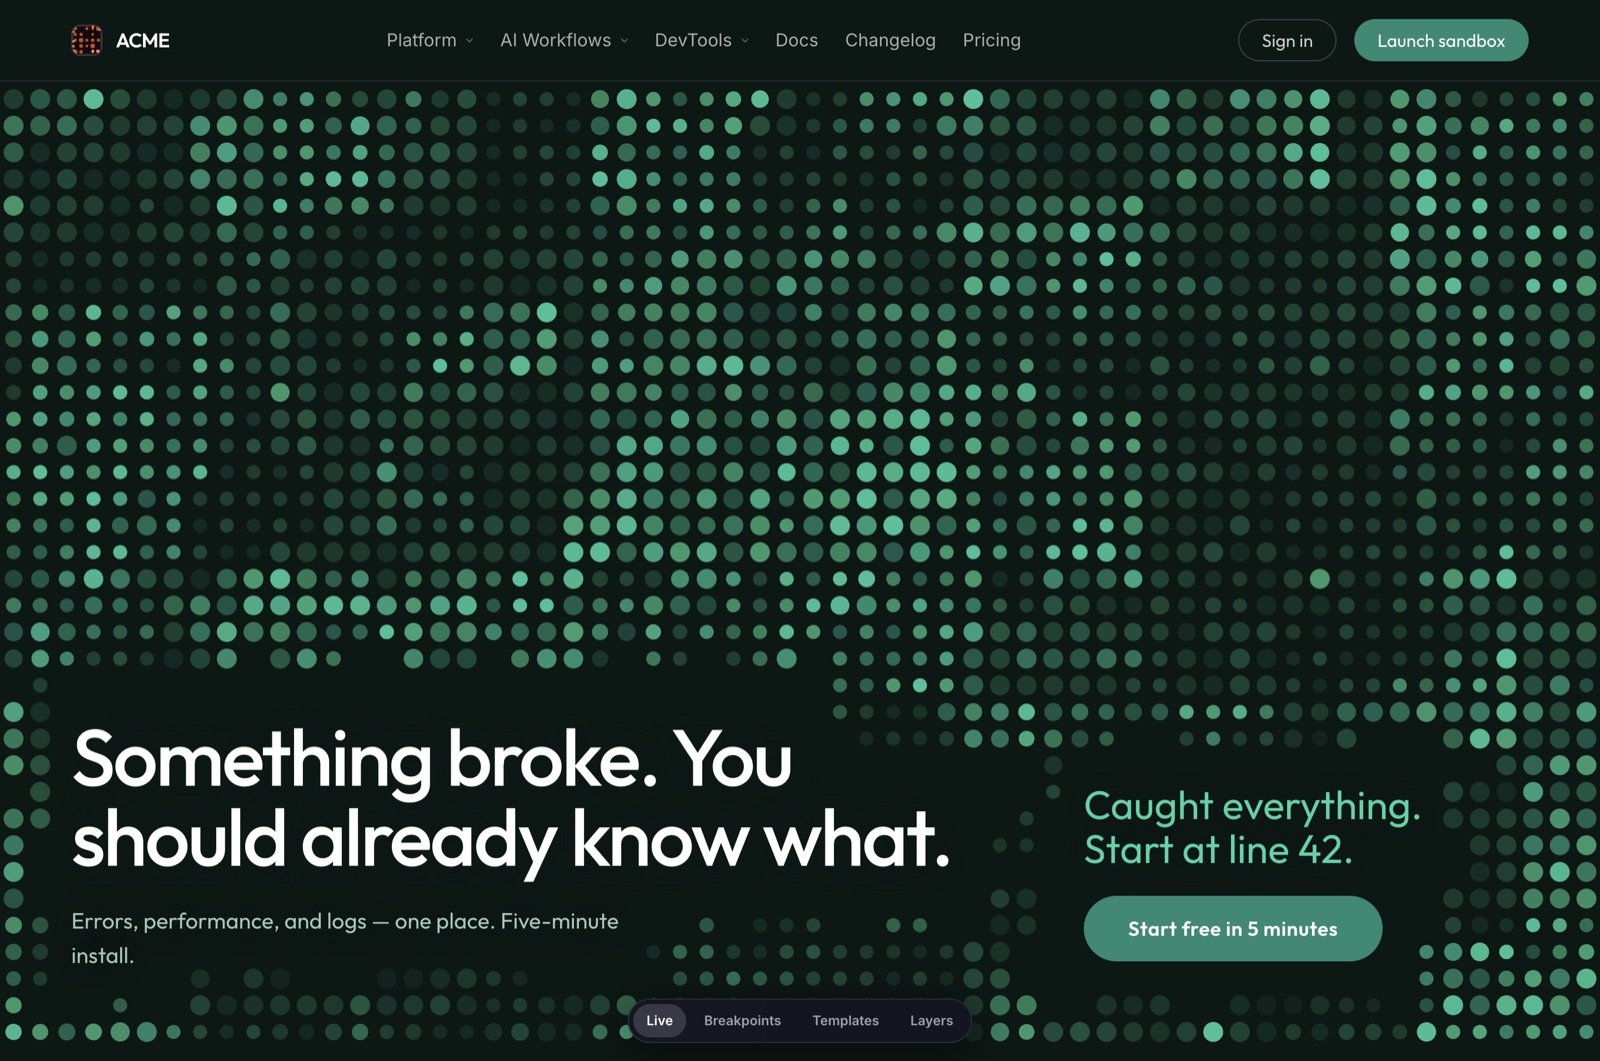
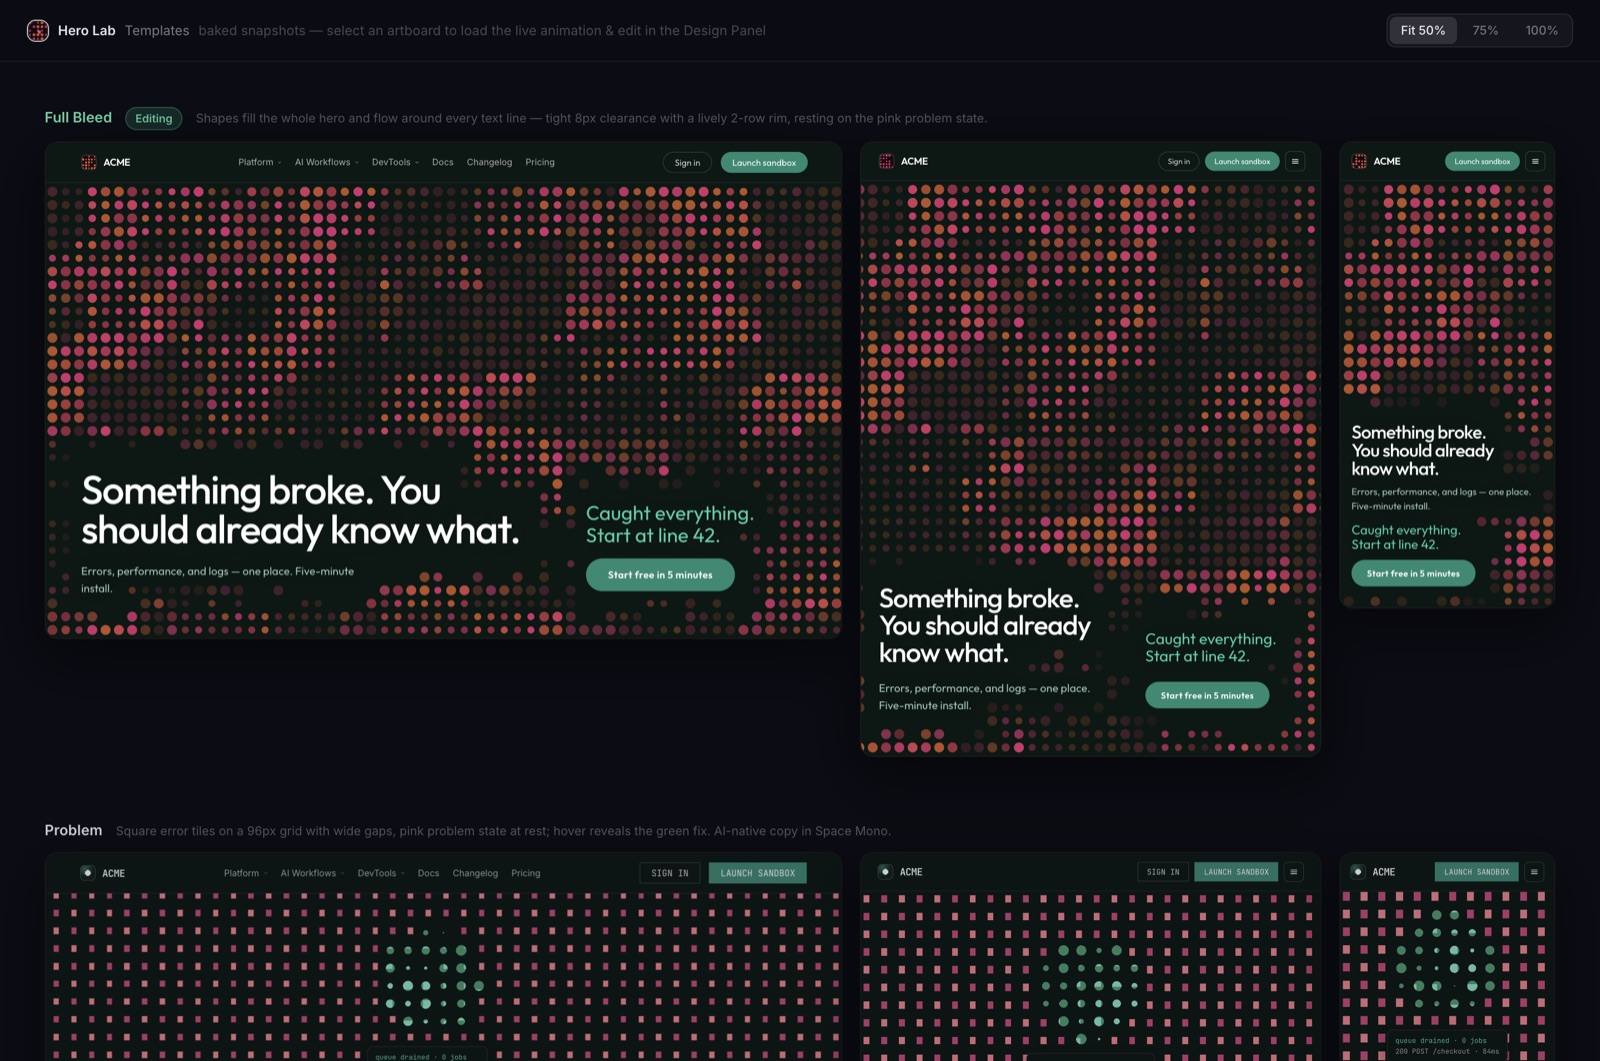
Templates as the starter view, stable tab bar, and a purpose-built OG card
Layers now always builds on Fine Grain rather than whatever template is
selected. Full Bleed and Problem already ship a pixel grid, wide gaps and a
tile renderer, so starting the stack there meant the first few steps toggled
settings that were visually already on — the "one setting at a time"
progression stopped teaching anything. Fine Grain is the bare shader, so each
step is the only thing that changes.

Logo placement now follows what each header is for:

- The demo's ACME header gets the STATIC mark. It sits inside a hero that is
  itself a moving shader, and a second animation at 28px competes with the
  thing the page exists to show. Still generative per visit, still rerolls on
  click; it just doesn't move.
- The Templates toolbar — which belongs to Hero Lab, not to the fictional
  brand in the artboards — gets the animated one, where motion competes with
  nothing.

Templates is the starter view for first-time visitors. Landing on the gallery
shows what the lab IS (many looks, three breakpoints each) instead of dropping
someone into a single hero with no context. Returning visitors keep their last
view.

The view toggle is now anchored to the viewport centre instead of the
panel-narrowed content column. It used to carry `right: panelOffset`, so it
slid sideways whenever the panel opened or closed — most visibly on Layers,
where the panel is hidden outright, meaning the one control present on every
[…]

diff --git a/src/lab/HeroLab.tsx b/src/lab/HeroLab.tsx
@@ -7,7 +7,7 @@ import { fontPairs } from '../themes/fonts'
 import { useDitherStore, setEdgeConfig, initDitherSync, applySceneTemplate, setPixelGridConfig, setAnimationConfig, setInitialState, applyHeroTemplate, heroTemplates } from '../heroes/dither/ditherStore'
 import { heroes, getHero } from './registry'
 import { getContentPreset } from '../content/presets'
-import BrandMark, { visitFormation, staticMarkDataUri } from '../components/BrandMark'
+import BrandMark from '../components/BrandMark'
 import SiteFooter from '../components/SiteFooter'
 import PreviewCanvas from './PreviewCanvas'
 import TemplateGallery from './TemplateGallery'
@@ -71,10 +71,13 @@ function LabHeader({ headerBg, rightOffset, button }: { headerBg: 'transparent' 
     >
       <div className="max-w-[1440px] mx-auto px-5 sm:px-8 xl:px-16 py-4 flex items-center justify-between">
         <div className="flex items-center gap-3 shrink-0 text-t-headline">
-          {/* Generative mark — a new shader formation each visit. Preview frames
-              get the no-GL variant so a gallery of artboards doesn't spend a
-              WebGL context per header. */}
-          <BrandMark size={28} static={isPreviewFrame} interactive={!isPreviewFrame} />
+          {/* Static here, in every context. This is the demo brand's mark inside
+              a hero that is itself a moving shader — a second animation at 28px
+              competes with the thing the page exists to show. It stays
+              generative (a new formation each visit, click to reroll); it just
+              doesn't move. The animated version lives on the Templates toolbar,
+              where it marks the project rather than the demo. */}
+          <BrandMark size={28} static interactive={!isPreviewFrame} />
           <a href="#" className="no-underline text-t-headline text-[18px] font-semibold tracking-[-0.03em]" style={{ fontFamily: brandFont }}>
             {preset.brand}
           </a>
@@ -211,12 +214,18 @@ function LabLayout() {
   const { enabled: panelOpen, setEnabled } = useTextInspector()
   const themedRef = useRef<HTMLDivElement>(null)
   const [themedNode, setThemedNode] = useState<HTMLDivElement | null>(null)
+  // Templates is the starter page: a first-time visitor lands on the gallery of
+  // artboards, which shows what the lab is (many looks, three breakpoints each)
+  // rather than dropping them into one hero with no context for it. A returning
+  // visitor keeps whatever view they last used.
   const [viewMode, setViewMode] = useState<ViewMode>(() => {
     try {
       const saved = localStorage.getItem('hero-lab-view-mode')
-      return saved === 'breakpoints' || saved === 'templates' || saved === 'layers' ? saved : 'live'
+      return saved === 'breakpoints' || saved === 'templates' || saved === 'layers' || saved === 'live'
+        ? saved
+        : 'templates'
     } catch {
-      return 'live'
+      return 'templates'
     }
   })
   // The Layers tab is a single stack-only surface: the progressive stack IS the
@@ -251,11 +260,6 @@ function LabLayout() {
   }, [viewMode])
   useEffect(() => {
     document.title = `Hero Lab — ${activeHero.name}`
-    // Match the favicon to this visit's formation, so the tab carries the same
-    // roll as the header mark. Preview frames skip it — they have no tab.
-    if (isPreviewFrame) return
-    const link = document.querySelector<HTMLLinkElement>('link[rel="icon"]')
-    if (link) link.href = staticMarkDataUri(visitFormation, 64)
   }, [])
   // Default Top start to the measured header height so the first row of shapes
   // begins whole below the filled nav — the panel slider can still override it.
@@ -335,11 +339,15 @@ function LabLayout() {
 
       <HeroSwitcher />
 
-      {/* Live / Breakpoints view toggle — centered in the content area */}
-      <div
-        className="fixed bottom-4 left-0 z-[1002] flex justify-center pointer-events-none"
-        style={{ right: panelOffset }}
-      >
+      {/* View toggle — anchored to the VIEWPORT centre, not the content area.
+          It used to sit inside the panel-narrowed column (`right: panelOffset`),
+          which meant it jumped sideways whenever the panel opened or closed —
+          most visibly on Layers, where the panel is hidden entirely, so the one
+          control that is present on every view was the one that moved between
+          them. It is global chrome; it should be in the same place everywhere.
+          At 1440 the pill spans roughly 505–935px and the panel starts at
+          1040px, so viewport-centring does not put it under the panel. */}
+      <div className="fixed bottom-4 left-0 right-0 z-[1002] flex justify-center pointer-events-none">
         <div className="pointer-events-auto flex items-center gap-1 p-1 rounded-full border backdrop-blur-xl bg-[rgba(20,21,35,0.92)] border-white/10 shadow-[0_8px_32px_rgba(0,0,0,0.5)]">
           {([['live', 'Live'], ['breakpoints', 'Breakpoints'], ['templates', 'Templates'], ['layers', 'Layers']] as const).map(([mode, label]) => (
             <button

diff --git a/src/components/BrandMark.tsx b/src/components/BrandMark.tsx
@@ -119,8 +119,14 @@ export const visitFormation = makeFormation(readSeed(), prefersReducedMotion())
 
 // ─── Static fallback ──────────────────────────────────────────────────────────
 
-/** Seeded 5×5 dot grid — the mark's vocabulary without a GL context. Used in
- *  preview iframes and as the favicon. */
+/** Seeded 5×5 dot grid — the mark's vocabulary without a GL context.
+ *
+ *  Note this is NOT used for the favicon. The tab icon is a fixed file
+ *  (public/favicon.svg): a favicon is an identity anchor — people find a tab in
+ *  a strip of twenty by its icon, and browsers cache it into history and
+ *  bookmarks. Re-rolling it per visit trades that recognition for a detail
+ *  almost nobody sees at 16px. The formation stays generative where it reads:
+ *  in the page. */
 function staticMarkSvg(f: Formation, px = 28): string {
   const r = rng(f.seed ^ 0x9e3779b9)
   const cells = 5

diff --git a/src/lab/LayerExplorer.tsx b/src/lab/LayerExplorer.tsx
@@ -133,6 +133,13 @@ export default function LayerExplorer() {
   const restoreId = useRef<string | null>(null)
   useEffect(() => {
     restoreId.current = s.activeTemplate
+    // Always explore from Fine Grain, whatever template is selected elsewhere.
+    // The stack is meant to read as "one setting at a time"; Full Bleed and
+    // Problem already ship a pixel grid, wide gaps and a tile renderer, so
+    // starting there means the first few steps toggle settings that are
+    // visually already on and the progression stops teaching anything. Fine
+    // Grain is the bare shader, so each step is the only thing that changes.
+    applyHeroTemplate('fine-grain')
     // Calm the screen-blended Color/alpha base while exploring layers — see
     // DitherState.stableColorField. Scoped to this view: cleared on leaving so
     // Live and Templates keep their colour shimmer.

diff --git a/src/lab/TemplateGallery.tsx b/src/lab/TemplateGallery.tsx
@@ -1,5 +1,6 @@
 import { useEffect, useMemo, useRef, useState } from 'react'
 import { useDitherStore, applyHeroTemplate, heroTemplates, getTabSourceId } from '../heroes/dither/ditherStore'
+import BrandMark from '../components/BrandMark'
 import { DEVICES } from './PreviewCanvas'
 
 const GAP = 32
@@ -65,7 +66,11 @@ export default function TemplateGallery() {
     <div className="h-screen flex flex-col bg-[#0b0c14]">
       {/* Pinned toolbar */}
       <div className="shrink-0 z-10 flex items-center justify-between px-6 py-3 border-b border-white/6 bg-[rgba(11,12,20,0.9)] backdrop-blur-xl">
-        <span className="text-[12px] font-semibold text-white/90 flex items-baseline gap-2">
+        <span className="text-[12px] font-semibold text-white/90 flex items-center gap-2">
+          {/* The project's own mark, and the one place the generative logo
+              animates — this toolbar belongs to Hero Lab, not to the demo brand
+              inside the artboards, so motion here competes with nothing. */}
+          <BrandMark size={20} />
           Hero Lab
           <span className="font-normal text-white/45">Templates</span>
           <span className="font-normal text-white/25">

diff --git a/README.md b/README.md
@@ -5,7 +5,10 @@ share the exact look as a URL.
 
 ### [→ Open the live lab](https://hero-lab.netlify.app)
 
-![Hero Lab — the Dither hero, green "fix" state, with the generative mark in the header](docs/preview.jpg)
+![Hero Lab — the Templates view: every hero template as an artboard, at desktop, tablet and phone widths](docs/preview.jpg)
+
+*The Templates gallery is where the lab opens: every template as an artboard, at all
+three breakpoints. Click one to make it live and start editing.*
 
 The background is a real WebGL dithering shader, not an image. Every dot, colour, and
 motion value in it is exposed as a control, so you can push it around until the section